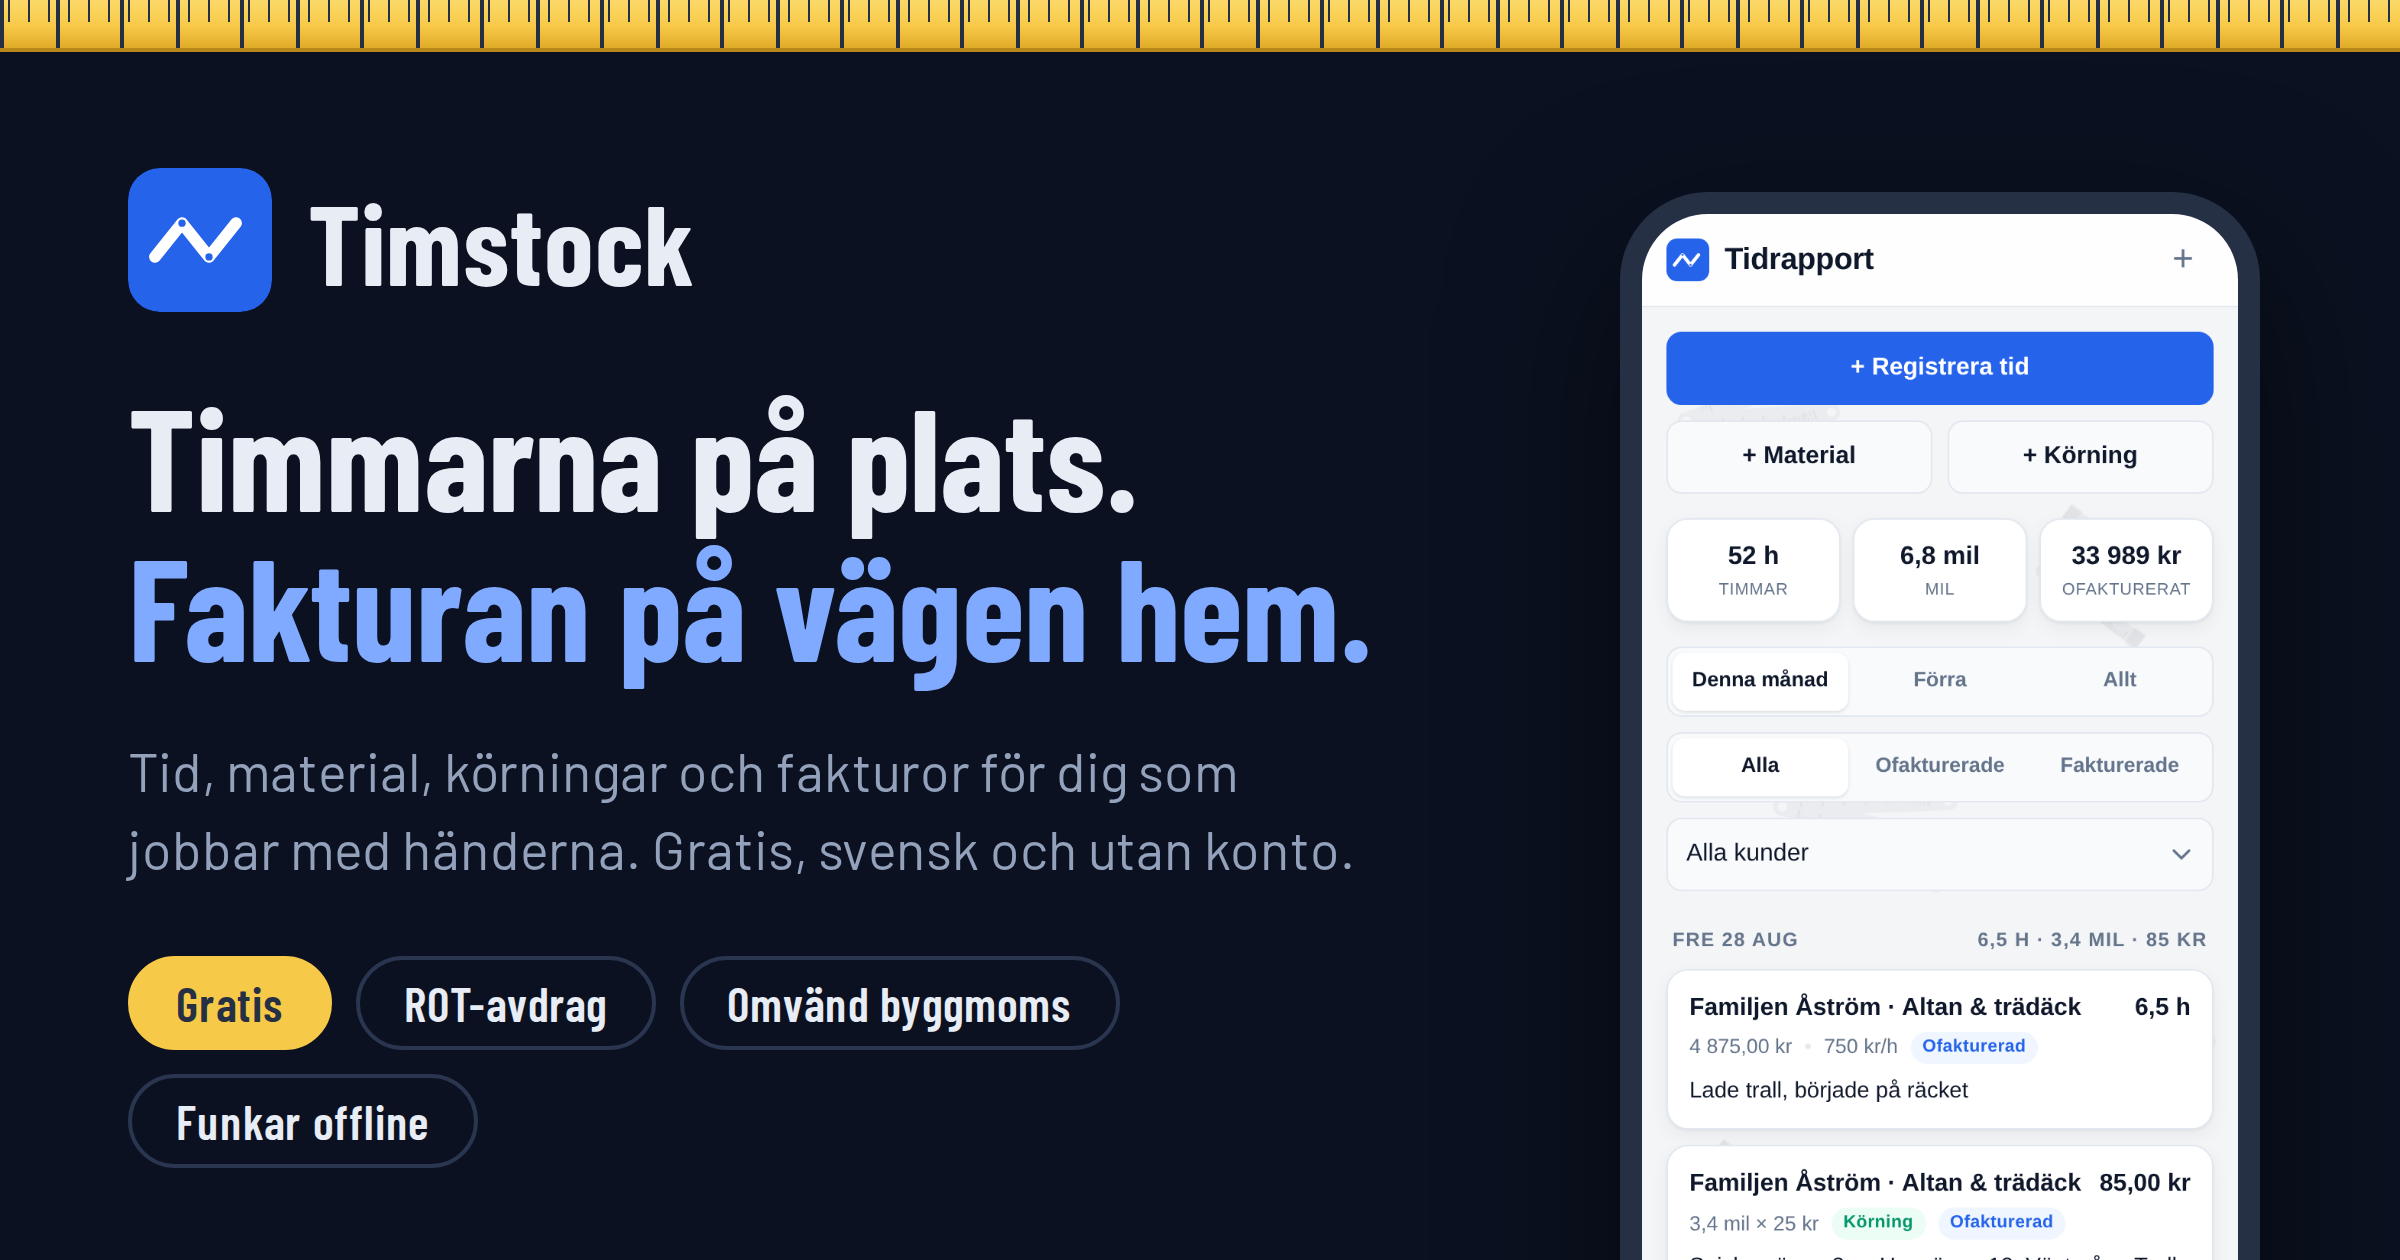
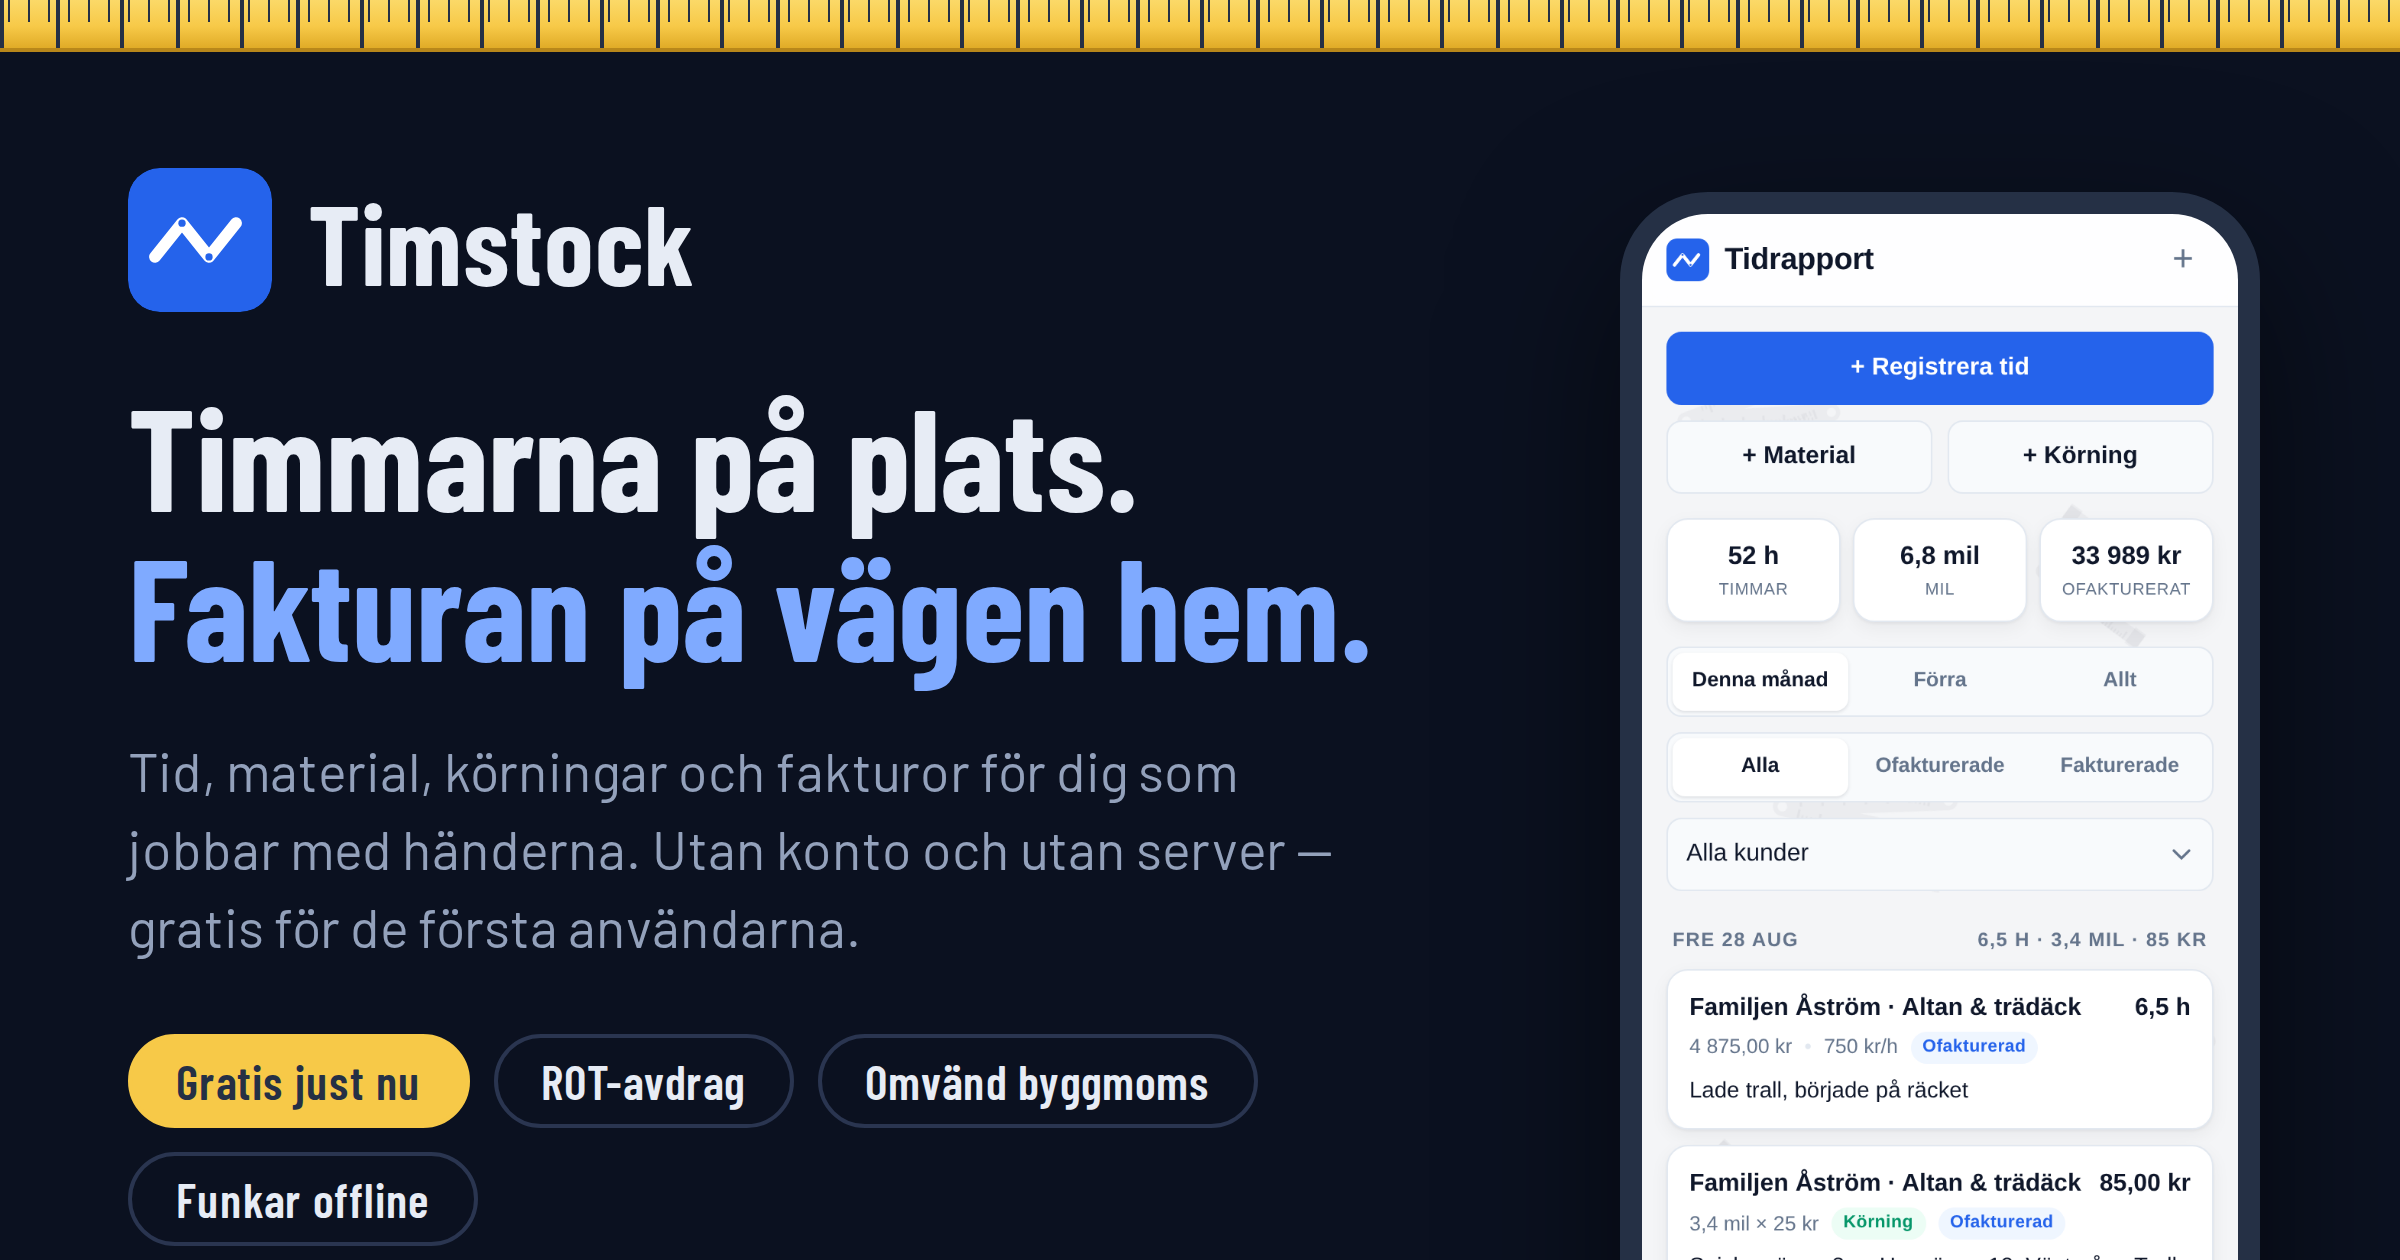
Gratis for de forsta anvandarna i stallet for 0 kr/manad
Appen ska kosta langre fram, sa alla for-alltid-loften ar borta fran
marknadssidan: prissektionen, finstilta i hjaltesektionen,
installationsstegen och metataggarna sager nu gratis for de forsta
anvandarna. Delningsbilden omrenderad med samma budskap.

Claude-Session: https://claude.ai/code/session_01Qvxtv6NWUpDrE76ivVMi3Q

Changed region(s): [[0.0312, 0.65, 0.5625, 0.9905]]

diff --git a/marknad/index.html b/marknad/index.html
@@ -3,10 +3,10 @@
 <head>
 <meta charset="utf-8">
 <meta name="viewport" content="width=device-width, initial-scale=1">
-<meta name="description" content="Timstock — gratis tidrapportering och fakturering för hantverkare. Tid, material, körningar och fakturor med ROT och omvänd byggmoms. Ingen server, ingen registrering.">
+<meta name="description" content="Timstock — tidrapportering och fakturering för hantverkare. Tid, material, körningar och fakturor med ROT och omvänd byggmoms. Ingen server, ingen registrering — gratis för de första användarna.">
 <!-- Byt till absolut URL när sidan hostas, t.ex. https://dittnamn.github.io/timstock/marknad/bilder/og.png -->
 <meta property="og:title" content="Timstock — timmarna på plats, fakturan på vägen hem">
-<meta property="og:description" content="Gratis tidrapportering och fakturering för hantverkare. ROT, omvänd byggmoms och momsunderlag inbyggt. Din data stannar hos dig.">
+<meta property="og:description" content="Tidrapportering och fakturering för hantverkare — gratis för de första användarna. ROT, omvänd byggmoms och momsunderlag inbyggt. Din data stannar hos dig.">
 <meta property="og:image" content="bilder/og.png">
 <title>Timstock — tid och faktura för hantverkare</title>
 <link rel="icon" href="../icon.svg" type="image/svg+xml">
@@ -296,7 +296,13 @@ p { margin: 0; }
   font-family: "Barlow Condensed", sans-serif;
   font-size: clamp(3.4rem, 10vw, 5.5rem); font-weight: 700; line-height: 1;
 }
-.price .big span { color: var(--accent); }
+.price .big span {
+  display: block;
+  font-size: .38em;
+  font-weight: 600;
+  color: var(--accent);
+  margin-top: 6px;
+}
 .price p { color: var(--muted); max-width: 36em; margin: 18px auto 30px; }
 
 /* ---------- Sidfot ---------- */
@@ -327,7 +333,7 @@ footer .git { margin-left: auto; }
 <section class="hero">
   <div class="wrap hero-grid">
     <div>
-      <p class="eyebrow">Gratis<span class="dot">·</span>Svensk<span class="dot">·</span>Funkar offline</p>
+      <p class="eyebrow">Gratis just nu<span class="dot">·</span>Svensk<span class="dot">·</span>Funkar offline</p>
       <h1>Timmarna på plats.<br>Fakturan på vägen hem.</h1>
       <p class="lead">Timstock är tidrapportering och fakturering för dig som jobbar
       med händerna. Registrera tid, material och körningar direkt i mobilen —
@@ -336,7 +342,7 @@ footer .git { margin-left: auto; }
         <a class="btn btn-primary" href="../index.html">Öppna appen</a>
         <a class="btn btn-ghost" href="#funktioner">Se hur den funkar</a>
       </div>
-      <p class="smallprint">Ingen registrering. Inget abonnemang. Din data stannar i din telefon.</p>
+      <p class="smallprint">Ingen registrering. Gratis för de första användarna. Din data stannar i din telefon.</p>
     </div>
     <div class="demo-wrap" id="demo">
       <p class="demo-tag">Testa direkt — det här är appen</p>
@@ -493,7 +499,7 @@ footer .git { margin-left: auto; }
       <div class="step">
         <h3>Klart</h3>
         <p>Egen ikon, fullskärm och offlineläge — den beter sig som vilken app
-        som helst. Fast utan konto och utan kostnad.</p>
+        som helst. Fast utan konto och krångel.</p>
       </div>
     </div>
   </div>
@@ -501,10 +507,10 @@ footer .git { margin-left: auto; }
 
 <section class="price">
   <div class="wrap">
-    <p class="big">0 kr<span>/månad</span></p>
-    <p>Inget abonnemang, ingen gratisperiod som tar slut, inga funktioner bakom
-    betalvägg. Timstock är öppen källkod — koden ligger öppet på GitHub och
-    appen är gratis att använda, för alltid.</p>
+    <p class="big">Gratis<span>för de första användarna</span></p>
+    <p>Timstock är i tidig fas. Du som börjar nu använder appen gratis och är
+    med och formar vad den ska bli — längre fram kommer den att kosta. Bästa
+    läget att kliva på är alltså nu.</p>
     <a class="btn btn-primary" href="../index.html">Öppna appen</a>
   </div>
 </section>
